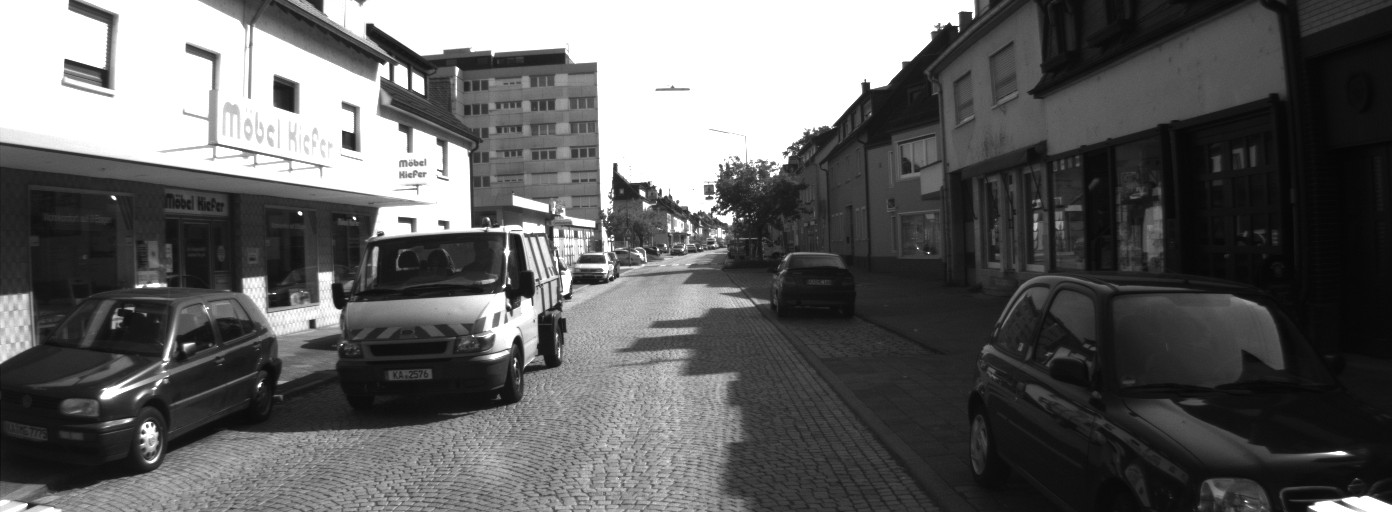
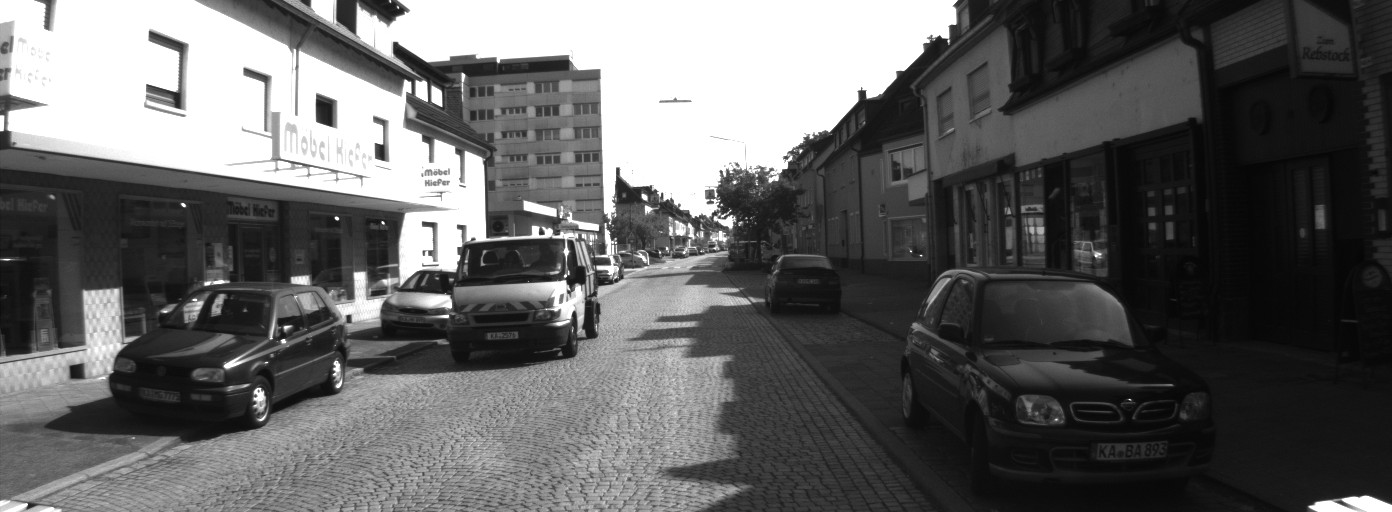
Get a better image for plotting epipolar lines

diff --git a/slam.py b/slam.py
@@ -47,7 +47,7 @@ matches = bf.match(img1_des, img2_des)
 # - DMatch.queryIdx - Index of the descriptor in query descriptors
 # - DMatch.imgIdx - Index of the train image.
 matches = sorted(matches, key = (lambda x: x.distance))
-selected_matches = [match for match in matches if match.distance < 48]
+selected_matches = [match for match in matches if match.distance < 32]
 
 if False:
     matches_to_draw = selected_matches
@@ -56,14 +56,16 @@ if False:
     plt.show()
 
 # opencv images store y coord first, then x coord
-matched_points = [[[img1_kp[match.trainIdx].pt[1], img1_kp[match.trainIdx].pt[0]],
-                   [img2_kp[match.queryIdx].pt[1], img2_kp[match.queryIdx].pt[0]]]
-                  for match in selected_matches]
+matched_points = np.asarray([[[img1_kp[match.trainIdx].pt[1], img1_kp[match.trainIdx].pt[0]],
+                              [img2_kp[match.queryIdx].pt[1], img2_kp[match.queryIdx].pt[0]]]
+                             for match in selected_matches])
 fundamental_matrix = eight_point_algorithm.calculate_fundamental_matrix(matched_points)
 
 if False:
     matches_to_draw = selected_matches[:8]
-    line_equations = [fundamental_matrix @ np.asarray([img1_kp[match.trainIdx].pt[1], img1_kp[match.trainIdx].pt[0], 1])
+
+    # draw epipolar lines on left image
+    line_equations = [np.asarray([img2_kp[match.queryIdx].pt[1], img2_kp[match.queryIdx].pt[0], 1]) @ fundamental_matrix
                       for match in matches_to_draw]
     left_img = img1.copy()
     for a, b, c in line_equations:
@@ -75,13 +77,16 @@ if False:
                  (255, 0, 0),
                  thickness=2)
 
+    # draw epipolar lines on the right image
+    line_equations = [fundamental_matrix @ np.asarray([img1_kp[match.trainIdx].pt[1], img1_kp[match.trainIdx].pt[0], 1]).transpose()
+                      for match in matches_to_draw]
     right_img = img2.copy()
-    for match in matches_to_draw:
-        cv2.circle(right_img,
-                   (int(img2_kp[match.queryIdx].pt[0]), int(img2_kp[match.queryIdx].pt[1])),
-                   15,
-                   (255, 0, 0),
-                   thickness=4)
+    for a, b, c in line_equations:
+        cv2.line(right_img,
+                 (int(-c / b), 0),
+                 (int(-(c + a * right_img.shape[1]) / b), right_img.shape[1]),
+                 (255, 0, 0),
+                 thickness=2)
 
     fig = plt.figure()
     fig.add_subplot(1, 2, 1)
@@ -89,9 +94,8 @@ if False:
 
     fig.add_subplot(1, 2, 2)
     plt.imshow(right_img)
+
     plt.show()
 
 essential_matrix = np.transpose(intrinsic_camera_matrix) @ fundamental_matrix @ intrinsic_camera_matrix
-rotation, translation = essential.essential_matrix_to_rotation_translation(essential_matrix)
-print(rotation)
-print(translation)
+rotation, translation = essential.essential_matrix_to_rotation_translation(essential_matrix, matched_points)

diff --git a/src/essential.py b/src/essential.py
@@ -1,15 +1,25 @@
 import numpy as np
 
 
-def essential_matrix_to_rotation_translation(e):
+def essential_matrix_to_rotation_translation(essential_matrix, matched_points):
     "given an essential matrix, calculates the translation vector (normalized) and the rotation matrix"
-    u, s, v = np.linalg.svd(e)
+    u, s, v = np.linalg.svd(essential_matrix)
     # http://igt.ip.uca.fr/~ab/Classes/DIKU-3DCV2/Handouts/Lecture16.pdf
     w = np.asarray([[0, -1, 0],
                     [1, 0, 0],
                     [0, 0, 1]])
-    rotation = u @ w @ v
+    possible_rotations = [u @ w @ v, u @ np.transpose(w) @ v]
+    rotation_multiplier = 1 if np.linalg.det(possible_rotations[0]) > 0 else -1
+    possible_rotations = [rotation_multiplier * rotation for rotation in possible_rotations]
+
     # translation X points right, Y points down, Z points into the image
-    translation = u[:, 2]
+    possible_translations = [u[:, -1], -1*u[:, -1]]
+
+    for rotation in possible_rotations:
+        for translation in possible_translations:
+            point_a = matched_points[0][0]
+            #print([point_a; 1] - translation)
+
+
     # TODO need to test points to determine the correct solution out of the four
     return rotation, translation
